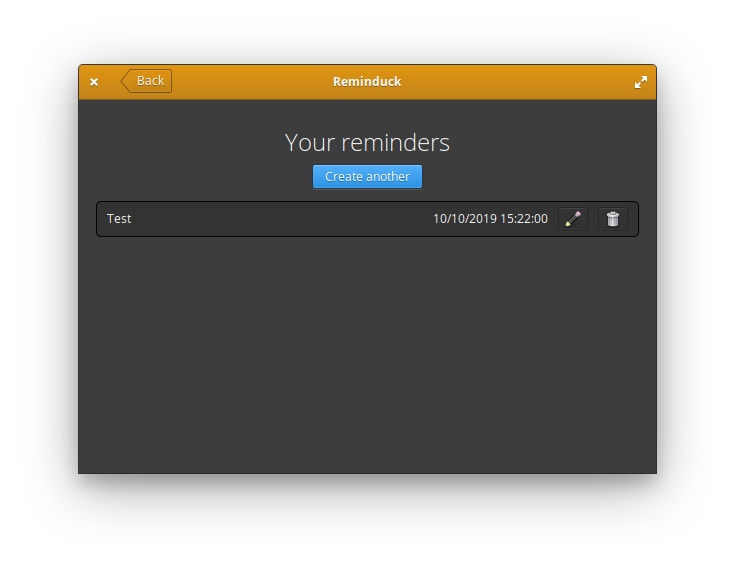
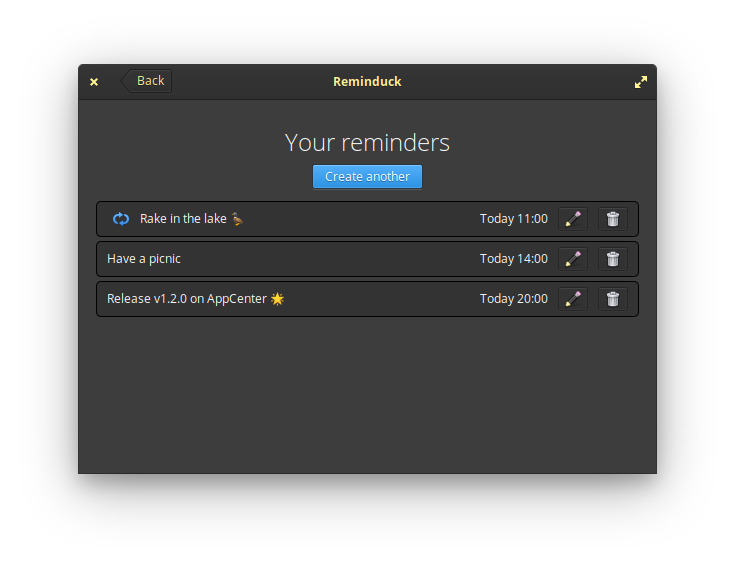
Release info

diff --git a/README.md b/README.md
@@ -1,12 +1,12 @@
 <p align="center">
-    <img src="data/screenshots/Welcome.png" alt="Screenshot" />
+    <img src="data/screenshots/Main.png" alt="Screenshot" />
 </p>
 
 # Reminduck
 
-Reminduck is a simple reminder app made to be quick and easy - it focuses on simple reminders with set time and date and nothing else.
+Reminduck is a simple reminder app made to be quick and easy - it focuses on simple or recurrent reminders with set time and date and nothing else.
 
-It does not aim to provide a complete control of your reminder needs (yet), but sometimes simple is just enough.
+It's perfect if all you want are simple or daily/weekly/monthly reminders. Anything more than that is not achievable by Reminduck right now - but you can help! Open an issue or a pull request if you have any ideas or requests.
 
 _And it quacks._
 
